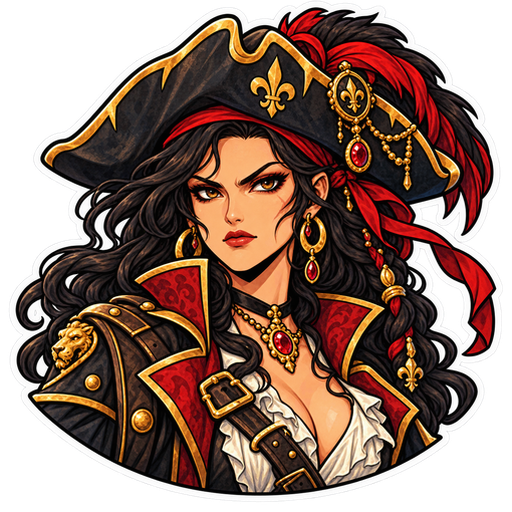
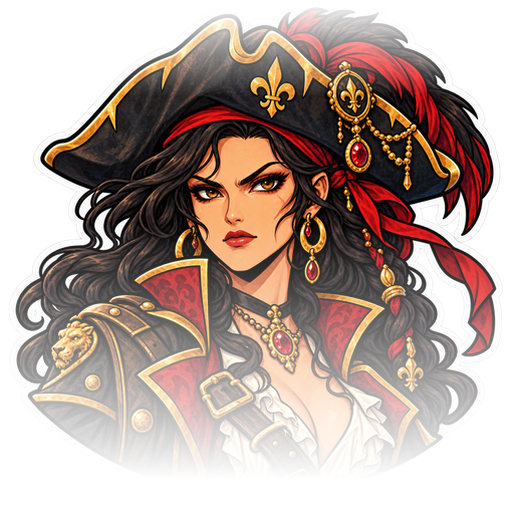
feat(capitaines): fiches fondues, bonus epingle, et la voix des cinq nouveaux
⛔ LES PORTRAITS DE FICHE DU LOT 3 ETAIENT DES AUTOCOLLANTS DURS. Les capf_
d'origine se dissolvent dans la carte (fondu d'alpha mesure sur sayyida :
entree 0-96 px, dissolution 224-480) : le meme profil est applique aux cinq —
« les autres capitaines ont un effet dans leur avatar pour la modale ».

⛔ LE BONUS DU CAPITAINE NE DEFILE PLUS. Range dans la zone qui defile de la
carte du pont, il se coupait en pleine phrase sous le pli — et l'ecart mort de
la retouche precedente s'ajoutait dessous. La carte-bonus est EPINGLEE entre
les medaillons et les quatre cartes de mode : toujours visible, comme elles.
L'ecart est rendu, les medaillons restent a 96 px.

+ LA VOIX DES CINQ : 30 repliques par langue (say.<capitaine>.<effet>.0-2 pour
  la couleur du personnage, say.any.<effet>.0-2 en repli), 4 langues, 2 arbres.
  Audit exhaustif : 66 cles attendues par langue, 0 manquante.

diff --git a/app/js/core/i18n_ar.js b/app/js/core/i18n_ar.js
@@ -2369,6 +2369,36 @@ export const AR = {
   'say.any.B011.0': 'هذا العمود ملعون. سيعطيك أقلّ.',
   'say.any.B011.1': 'ألقيت عليه لعنة. تفضّل، واصِل.',
   'say.any.B011.2': 'خمسة عشر في المئة أقلّ، ولم ترَها قادمة.',
+  'say.clisson.B017.0': 'المسوا نردًا واحدًا من نرودي وستدفعون الثمن.',
+  'say.clisson.B017.1': 'ثأري معلن. اضربوا، وسترون.',
+  'say.clisson.B017.2': 'ثلاثة عشر عامًا من الانتقام. دور آخر، نرد أقل…',
+  'say.vane.B018.0': 'الراية السوداء مرفوعة! لن يُستثنى شيء.',
+  'say.vane.B018.1': 'لا هوادة، في أي عمود.',
+  'say.vane.B018.2': 'أحرقوا كل شيء — هكذا تُحيّا ناساو.',
+  'say.lafitte.B019.0': 'هناك دائمًا ممر لا تعرفه الجمارك.',
+  'say.lafitte.B019.1': 'عمود ممتلئ؟ ليس بالنسبة لمهرّب.',
+  'say.lafitte.B019.2': 'علّمني المستنقع: هناك دائمًا مدخل.',
+  'say.bellamy.B020.0': 'الويدا تفرغ عنبرها!',
+  'say.bellamy.B020.1': 'حين آخذ، آخذ كل شيء.',
+  'say.bellamy.B020.2': 'أربعة أطنان ونصف من الذهب، وهذه مجرد البداية.',
+  'say.sparrow.B021.0': 'بوصلتي تشير إلى ما أريد. لا إلى الشمال.',
+  'say.sparrow.B021.1': 'أتفهم؟ حتى النرد لم يعد يعرف مكانه.',
+  'say.sparrow.B021.2': 'هذا شأن الحظ: إنه يدور.',
+  'say.any.B017.0': 'الثأر معلن.',
+  'say.any.B017.1': 'الضربة القادمة ستُدفع ثمنًا.',
+  'say.any.B017.2': 'العين بالعين، والنرد بالنرد.',
+  'say.any.B018.0': 'الراية السوداء تصعد السارية!',
+  'say.any.B018.1': 'لن يُستثنى أي عمود.',
+  'say.any.B018.2': 'هذه القيمة ستفنى في كل مكان.',
+  'say.any.B019.0': 'ممر سري ينفتح.',
+  'say.any.B019.1': 'حتى العمود الممتلئ له باب خفي.',
+  'say.any.B019.2': 'النرد الأعلى سيفسح المكان.',
+  'say.any.B020.0': 'الغنيمة ستنهمر.',
+  'say.any.B020.1': 'عمود كامل برمية واحدة.',
+  'say.any.B020.2': 'العنبر يفيض.',
+  'say.any.B021.0': 'البوصلة تجن…',
+  'say.any.B021.1': 'النرد لم يعد يعرف مكانه.',
+  'say.any.B021.2': 'عمودان يعودان إلى القرعة.',
   'fx.colAlreadyFrozen': 'أحد أعمدته مُجمَّد بالفعل',
   'fx.colAlreadyCursed': 'أحد أعمدته ملعون بالفعل',
   'fx.alreadySlowed': 'دوره التالي مُقتضَب بالفعل',

diff --git a/www/js/core/i18n_ar.js b/www/js/core/i18n_ar.js
@@ -2369,6 +2369,36 @@ export const AR = {
   'say.any.B011.0': 'هذا العمود ملعون. سيعطيك أقلّ.',
   'say.any.B011.1': 'ألقيت عليه لعنة. تفضّل، واصِل.',
   'say.any.B011.2': 'خمسة عشر في المئة أقلّ، ولم ترَها قادمة.',
+  'say.clisson.B017.0': 'المسوا نردًا واحدًا من نرودي وستدفعون الثمن.',
+  'say.clisson.B017.1': 'ثأري معلن. اضربوا، وسترون.',
+  'say.clisson.B017.2': 'ثلاثة عشر عامًا من الانتقام. دور آخر، نرد أقل…',
+  'say.vane.B018.0': 'الراية السوداء مرفوعة! لن يُستثنى شيء.',
+  'say.vane.B018.1': 'لا هوادة، في أي عمود.',
+  'say.vane.B018.2': 'أحرقوا كل شيء — هكذا تُحيّا ناساو.',
+  'say.lafitte.B019.0': 'هناك دائمًا ممر لا تعرفه الجمارك.',
+  'say.lafitte.B019.1': 'عمود ممتلئ؟ ليس بالنسبة لمهرّب.',
+  'say.lafitte.B019.2': 'علّمني المستنقع: هناك دائمًا مدخل.',
+  'say.bellamy.B020.0': 'الويدا تفرغ عنبرها!',
+  'say.bellamy.B020.1': 'حين آخذ، آخذ كل شيء.',
+  'say.bellamy.B020.2': 'أربعة أطنان ونصف من الذهب، وهذه مجرد البداية.',
+  'say.sparrow.B021.0': 'بوصلتي تشير إلى ما أريد. لا إلى الشمال.',
+  'say.sparrow.B021.1': 'أتفهم؟ حتى النرد لم يعد يعرف مكانه.',
+  'say.sparrow.B021.2': 'هذا شأن الحظ: إنه يدور.',
+  'say.any.B017.0': 'الثأر معلن.',
+  'say.any.B017.1': 'الضربة القادمة ستُدفع ثمنًا.',
+  'say.any.B017.2': 'العين بالعين، والنرد بالنرد.',
+  'say.any.B018.0': 'الراية السوداء تصعد السارية!',
+  'say.any.B018.1': 'لن يُستثنى أي عمود.',
+  'say.any.B018.2': 'هذه القيمة ستفنى في كل مكان.',
+  'say.any.B019.0': 'ممر سري ينفتح.',
+  'say.any.B019.1': 'حتى العمود الممتلئ له باب خفي.',
+  'say.any.B019.2': 'النرد الأعلى سيفسح المكان.',
+  'say.any.B020.0': 'الغنيمة ستنهمر.',
+  'say.any.B020.1': 'عمود كامل برمية واحدة.',
+  'say.any.B020.2': 'العنبر يفيض.',
+  'say.any.B021.0': 'البوصلة تجن…',
+  'say.any.B021.1': 'النرد لم يعد يعرف مكانه.',
+  'say.any.B021.2': 'عمودان يعودان إلى القرعة.',
   'fx.colAlreadyFrozen': 'أحد أعمدته مُجمَّد بالفعل',
   'fx.colAlreadyCursed': 'أحد أعمدته ملعون بالفعل',
   'fx.alreadySlowed': 'دوره التالي مُقتضَب بالفعل',

diff --git a/app/js/core/i18n_fr.js b/app/js/core/i18n_fr.js
@@ -2423,6 +2423,36 @@ export const FR = {
   'say.any.B011.0': 'Cette colonne est maudite. Elle te rapportera moins.',
   'say.any.B011.1': 'J’ai posé une malédiction là-dessus. Continue, surtout.',
   'say.any.B011.2': 'Quinze pour cent de moins, et tu ne l’as pas vu venir.',
+  'say.clisson.B017.0': 'Touchez un seul de mes dés, et vous paierez le prix.',
+  'say.clisson.B017.1': 'Ma vendetta est jurée. Frappez, pour voir.',
+  'say.clisson.B017.2': 'Treize ans de vengeance. Un tour de plus, un de moins…',
+  'say.vane.B018.0': 'Pavillon noir hissé ! Rien ne sera épargné.',
+  'say.vane.B018.1': 'Aucun quartier, sur aucune colonne.',
+  'say.vane.B018.2': 'Brûlez tout — c\'est comme ça qu\'on salue Nassau.',
+  'say.lafitte.B019.0': 'Il y a toujours un passage que la douane ignore.',
+  'say.lafitte.B019.1': 'Colonne pleine ? Pas pour un contrebandier.',
+  'say.lafitte.B019.2': 'Le bayou m\'a appris : on entre toujours quelque part.',
+  'say.bellamy.B020.0': 'Le Whydah déverse sa cale !',
+  'say.bellamy.B020.1': 'Quand je prends, je prends TOUT.',
+  'say.bellamy.B020.2': 'Quatre tonnes et demie d\'or, et ce n\'est qu\'un début.',
+  'say.sparrow.B021.0': 'Mon compas montre ce que je désire. Pas le nord.',
+  'say.sparrow.B021.1': 'Savvy ? Les dés non plus ne savent plus où ils en sont.',
+  'say.sparrow.B021.2': 'C\'est ça le truc avec la chance : elle tourne.',
+  'say.any.B017.0': 'La vendetta est jurée.',
+  'say.any.B017.1': 'Le prochain coup se paiera.',
+  'say.any.B017.2': 'Œil pour œil, dé pour dé.',
+  'say.any.B018.0': 'Le pavillon noir monte au mât !',
+  'say.any.B018.1': 'Aucune colonne ne sera épargnée.',
+  'say.any.B018.2': 'La valeur périra partout.',
+  'say.any.B019.0': 'Un passage secret s\'ouvre.',
+  'say.any.B019.1': 'Même une colonne pleine a une porte dérobée.',
+  'say.any.B019.2': 'Le dé du dessus cédera sa place.',
+  'say.any.B020.0': 'Le butin va pleuvoir.',
+  'say.any.B020.1': 'Une colonne entière d\'un seul coup.',
+  'say.any.B020.2': 'La cale se déverse.',
+  'say.any.B021.0': 'Le compas s\'affole…',
+  'say.any.B021.1': 'Les dés ne savent plus où ils en sont.',
+  'say.any.B021.2': 'Deux colonnes repartent au sort.',
 
   /* ══ LA VOIX DES CINQ NOUVEAUX, SUR LEUR PROPRE TRAIT ══
      Un capitaine ne parle vraiment que d’une chose : ce qu’il fait mieux que les

diff --git a/www/js/core/i18n_fr.js b/www/js/core/i18n_fr.js
@@ -2423,6 +2423,36 @@ export const FR = {
   'say.any.B011.0': 'Cette colonne est maudite. Elle te rapportera moins.',
   'say.any.B011.1': 'J’ai posé une malédiction là-dessus. Continue, surtout.',
   'say.any.B011.2': 'Quinze pour cent de moins, et tu ne l’as pas vu venir.',
+  'say.clisson.B017.0': 'Touchez un seul de mes dés, et vous paierez le prix.',
+  'say.clisson.B017.1': 'Ma vendetta est jurée. Frappez, pour voir.',
+  'say.clisson.B017.2': 'Treize ans de vengeance. Un tour de plus, un de moins…',
+  'say.vane.B018.0': 'Pavillon noir hissé ! Rien ne sera épargné.',
+  'say.vane.B018.1': 'Aucun quartier, sur aucune colonne.',
+  'say.vane.B018.2': 'Brûlez tout — c\'est comme ça qu\'on salue Nassau.',
+  'say.lafitte.B019.0': 'Il y a toujours un passage que la douane ignore.',
+  'say.lafitte.B019.1': 'Colonne pleine ? Pas pour un contrebandier.',
+  'say.lafitte.B019.2': 'Le bayou m\'a appris : on entre toujours quelque part.',
+  'say.bellamy.B020.0': 'Le Whydah déverse sa cale !',
+  'say.bellamy.B020.1': 'Quand je prends, je prends TOUT.',
+  'say.bellamy.B020.2': 'Quatre tonnes et demie d\'or, et ce n\'est qu\'un début.',
+  'say.sparrow.B021.0': 'Mon compas montre ce que je désire. Pas le nord.',
+  'say.sparrow.B021.1': 'Savvy ? Les dés non plus ne savent plus où ils en sont.',
+  'say.sparrow.B021.2': 'C\'est ça le truc avec la chance : elle tourne.',
+  'say.any.B017.0': 'La vendetta est jurée.',
+  'say.any.B017.1': 'Le prochain coup se paiera.',
+  'say.any.B017.2': 'Œil pour œil, dé pour dé.',
+  'say.any.B018.0': 'Le pavillon noir monte au mât !',
+  'say.any.B018.1': 'Aucune colonne ne sera épargnée.',
+  'say.any.B018.2': 'La valeur périra partout.',
+  'say.any.B019.0': 'Un passage secret s\'ouvre.',
+  'say.any.B019.1': 'Même une colonne pleine a une porte dérobée.',
+  'say.any.B019.2': 'Le dé du dessus cédera sa place.',
+  'say.any.B020.0': 'Le butin va pleuvoir.',
+  'say.any.B020.1': 'Une colonne entière d\'un seul coup.',
+  'say.any.B020.2': 'La cale se déverse.',
+  'say.any.B021.0': 'Le compas s\'affole…',
+  'say.any.B021.1': 'Les dés ne savent plus où ils en sont.',
+  'say.any.B021.2': 'Deux colonnes repartent au sort.',
 
   /* ══ LA VOIX DES CINQ NOUVEAUX, SUR LEUR PROPRE TRAIT ══
      Un capitaine ne parle vraiment que d’une chose : ce qu’il fait mieux que les

diff --git a/app/js/core/i18n_es.js b/app/js/core/i18n_es.js
@@ -2377,6 +2377,36 @@ export const ES = {
   'say.any.B011.0': 'Esa columna está maldita. Te rendirá menos.',
   'say.any.B011.1': 'Le he echado una maldición. Tú sigue, sigue.',
   'say.any.B011.2': 'Un quince por ciento menos, y no lo has visto venir.',
+  'say.clisson.B017.0': 'Tocad uno de mis dados y pagaréis el precio.',
+  'say.clisson.B017.1': 'Mi vendetta está jurada. Golpead, a ver.',
+  'say.clisson.B017.2': 'Trece años de venganza. Un turno más, un dado menos…',
+  'say.vane.B018.0': '¡Bandera negra izada! Nada será perdonado.',
+  'say.vane.B018.1': 'Sin cuartel, en ninguna columna.',
+  'say.vane.B018.2': 'Quemadlo todo: así se saluda a Nassau.',
+  'say.lafitte.B019.0': 'Siempre hay un paso que la aduana no conoce.',
+  'say.lafitte.B019.1': '¿Columna llena? No para un contrabandista.',
+  'say.lafitte.B019.2': 'El pantano me enseñó: siempre se entra por algún lado.',
+  'say.bellamy.B020.0': '¡El Whydah vacía su bodega!',
+  'say.bellamy.B020.1': 'Cuando tomo, lo tomo TODO.',
+  'say.bellamy.B020.2': 'Cuatro toneladas y media de oro, y esto es solo el comienzo.',
+  'say.sparrow.B021.0': 'Mi brújula señala lo que deseo. No el norte.',
+  'say.sparrow.B021.1': '¿Savvy? Los dados tampoco saben dónde están.',
+  'say.sparrow.B021.2': 'Eso tiene la suerte: gira.',
+  'say.any.B017.0': 'La vendetta está jurada.',
+  'say.any.B017.1': 'El próximo golpe se pagará.',
+  'say.any.B017.2': 'Ojo por ojo, dado por dado.',
+  'say.any.B018.0': '¡La bandera negra sube al mástil!',
+  'say.any.B018.1': 'Ninguna columna será perdonada.',
+  'say.any.B018.2': 'Ese valor morirá en todas partes.',
+  'say.any.B019.0': 'Se abre un pasaje secreto.',
+  'say.any.B019.1': 'Hasta una columna llena tiene puerta trasera.',
+  'say.any.B019.2': 'El dado de arriba cederá el sitio.',
+  'say.any.B020.0': 'El botín va a llover.',
+  'say.any.B020.1': 'Una columna entera de un solo golpe.',
+  'say.any.B020.2': 'La bodega se derrama.',
+  'say.any.B021.0': 'La brújula se vuelve loca…',
+  'say.any.B021.1': 'Los dados ya no saben dónde están.',
+  'say.any.B021.2': 'Dos columnas vuelven al azar.',
   'fx.colAlreadyFrozen': 'Una de sus columnas ya está congelada',
   'fx.colAlreadyCursed': 'Una de sus columnas ya está maldita',
   'fx.alreadySlowed': 'Su próximo turno ya está acortado',

diff --git a/www/js/core/i18n_es.js b/www/js/core/i18n_es.js
@@ -2377,6 +2377,36 @@ export const ES = {
   'say.any.B011.0': 'Esa columna está maldita. Te rendirá menos.',
   'say.any.B011.1': 'Le he echado una maldición. Tú sigue, sigue.',
   'say.any.B011.2': 'Un quince por ciento menos, y no lo has visto venir.',
+  'say.clisson.B017.0': 'Tocad uno de mis dados y pagaréis el precio.',
+  'say.clisson.B017.1': 'Mi vendetta está jurada. Golpead, a ver.',
+  'say.clisson.B017.2': 'Trece años de venganza. Un turno más, un dado menos…',
+  'say.vane.B018.0': '¡Bandera negra izada! Nada será perdonado.',
+  'say.vane.B018.1': 'Sin cuartel, en ninguna columna.',
+  'say.vane.B018.2': 'Quemadlo todo: así se saluda a Nassau.',
+  'say.lafitte.B019.0': 'Siempre hay un paso que la aduana no conoce.',
+  'say.lafitte.B019.1': '¿Columna llena? No para un contrabandista.',
+  'say.lafitte.B019.2': 'El pantano me enseñó: siempre se entra por algún lado.',
+  'say.bellamy.B020.0': '¡El Whydah vacía su bodega!',
+  'say.bellamy.B020.1': 'Cuando tomo, lo tomo TODO.',
+  'say.bellamy.B020.2': 'Cuatro toneladas y media de oro, y esto es solo el comienzo.',
+  'say.sparrow.B021.0': 'Mi brújula señala lo que deseo. No el norte.',
+  'say.sparrow.B021.1': '¿Savvy? Los dados tampoco saben dónde están.',
+  'say.sparrow.B021.2': 'Eso tiene la suerte: gira.',
+  'say.any.B017.0': 'La vendetta está jurada.',
+  'say.any.B017.1': 'El próximo golpe se pagará.',
+  'say.any.B017.2': 'Ojo por ojo, dado por dado.',
+  'say.any.B018.0': '¡La bandera negra sube al mástil!',
+  'say.any.B018.1': 'Ninguna columna será perdonada.',
+  'say.any.B018.2': 'Ese valor morirá en todas partes.',
+  'say.any.B019.0': 'Se abre un pasaje secreto.',
+  'say.any.B019.1': 'Hasta una columna llena tiene puerta trasera.',
+  'say.any.B019.2': 'El dado de arriba cederá el sitio.',
+  'say.any.B020.0': 'El botín va a llover.',
+  'say.any.B020.1': 'Una columna entera de un solo golpe.',
+  'say.any.B020.2': 'La bodega se derrama.',
+  'say.any.B021.0': 'La brújula se vuelve loca…',
+  'say.any.B021.1': 'Los dados ya no saben dónde están.',
+  'say.any.B021.2': 'Dos columnas vuelven al azar.',
   'fx.colAlreadyFrozen': 'Una de sus columnas ya está congelada',
   'fx.colAlreadyCursed': 'Una de sus columnas ya está maldita',
   'fx.alreadySlowed': 'Su próximo turno ya está acortado',

diff --git a/www/js/core/i18n_en.js b/www/js/core/i18n_en.js
@@ -2275,6 +2275,36 @@ export const EN = {
   'say.any.B011.0': 'That column is cursed. It will pay you less.',
   'say.any.B011.1': 'I laid a curse on it. By all means, keep going.',
   'say.any.B011.2': 'Fifteen per cent less, and you never saw it coming.',
+  'say.clisson.B017.0': 'Touch one of my dice and you will pay the price.',
+  'say.clisson.B017.1': 'My vendetta is sworn. Strike, and see.',
+  'say.clisson.B017.2': 'Thirteen years of vengeance. One more turn, one less die…',
+  'say.vane.B018.0': 'Black flag up! Nothing will be spared.',
+  'say.vane.B018.1': 'No quarter, in any column.',
+  'say.vane.B018.2': 'Burn it all — that is how you salute Nassau.',
+  'say.lafitte.B019.0': 'There is always a pass the customs never found.',
+  'say.lafitte.B019.1': 'Full column? Not for a smuggler.',
+  'say.lafitte.B019.2': 'The bayou taught me: there is always a way in.',
+  'say.bellamy.B020.0': 'The Whydah empties her hold!',
+  'say.bellamy.B020.1': 'When I take, I take it ALL.',
+  'say.bellamy.B020.2': 'Four and a half tons of gold, and that is just the start.',
+  'say.sparrow.B021.0': 'My compass points at what I want. Not north.',
+  'say.sparrow.B021.1': 'Savvy? The dice do not know where they stand either.',
+  'say.sparrow.B021.2': 'That is the thing about luck: it turns.',
+  'say.any.B017.0': 'The vendetta is sworn.',
+  'say.any.B017.1': 'The next blow will be repaid.',
+  'say.any.B017.2': 'An eye for an eye, a die for a die.',
+  'say.any.B018.0': 'The black flag climbs the mast!',
+  'say.any.B018.1': 'No column will be spared.',
+  'say.any.B018.2': 'That value dies everywhere.',
+  'say.any.B019.0': 'A secret passage opens.',
+  'say.any.B019.1': 'Even a full column has a hidden door.',
+  'say.any.B019.2': 'The top die will step aside.',
+  'say.any.B020.0': 'Plunder is about to rain.',
+  'say.any.B020.1': 'A whole column in one throw.',
+  'say.any.B020.2': 'The hold spills over.',
+  'say.any.B021.0': 'The compass spins wild…',
+  'say.any.B021.1': 'The dice no longer know where they stand.',
+  'say.any.B021.2': 'Two columns go back to chance.',
   'fx.colAlreadyFrozen': 'One of their columns is already frozen',
   'fx.colAlreadyCursed': 'One of their columns is already cursed',
   'fx.alreadySlowed': 'Their next turn is already rushed',

diff --git a/www/css/dice.css b/www/css/dice.css
@@ -3128,10 +3128,14 @@
   align-items: center;
   justify-content: center;
   gap: 12px;
-  margin: 14px auto 0;
+  /* Epinglee HORS de la zone qui defile : elle ne bouge pas, elle ne se coupe
+     pas. flex none, sinon la carte du pont (flex column) l'ecraserait. */
+  flex: none;
+  margin: 10px auto 0;
   padding: 10px 14px;
-  max-width: 420px;
-  min-height: 62px;
+  width: 100%;
+  max-width: 460px;
+  min-height: 78px;
   border-radius: 10px;
   background: rgba(0, 0, 0, .32);
   box-shadow: inset 0 0 0 1px rgba(201, 162, 39, .28);
@@ -3793,8 +3797,9 @@
      qui debordent par le HAUT de chaque bouton. */
   flex: 0 0 auto;
   padding-top: calc(var(--pd-mode-art, 76px) * .52);
-  /* Descendues a la demande : l'air est au-dessus, avec les capitaines. */
-  margin-top: clamp(20px, 5vh, 48px);
+  /* L'air mort a ete rendu a la carte-bonus, epinglee au-dessus : elle ne
+     defile plus, donc plus d'ecart a compenser ici. */
+  margin-top: 10px;
 }
 
 /* ⛔ LA CARTE DU PONT SE COUPE EN DEUX. Tout tenait dans une seule boite qui

diff --git a/www/js/pages/dice_lobby.js b/www/js/pages/dice_lobby.js
@@ -193,7 +193,6 @@ function captainStrip() {
         </button>`;
       }).join('')}
       </div>
-      <div class="dc-cap-card" id="dc-cap-card">${captainCard(chosen)}</div>
     </div>`;
 }
 
@@ -744,6 +743,13 @@ export function renderMenu(el) {
         : ''}
       ${captainStrip()}
       </div>
+
+      <!-- ⛔ LE BONUS DU CAPITAINE NE DEFILE PAS. Range dans la zone qui
+           defile, il se coupait en pleine phrase sous le pli — « agrandis la
+           zone capitaine pour VOIR le bonus ». C'est la reponse a la question
+           que pose chaque medaillon : elle reste sous les yeux, comme les
+           quatre cartes de mode. -->
+      <div class="dc-cap-card" id="dc-cap-card">${captainCard(mine())}</div>
 
       <!-- ⛔ TROIS BARRES EMPILEES SONT DEVENUES TROIS CARTES COTE A COTE.
            C'est la disposition demandee, maquette a l'appui (home_btn_need.png).
